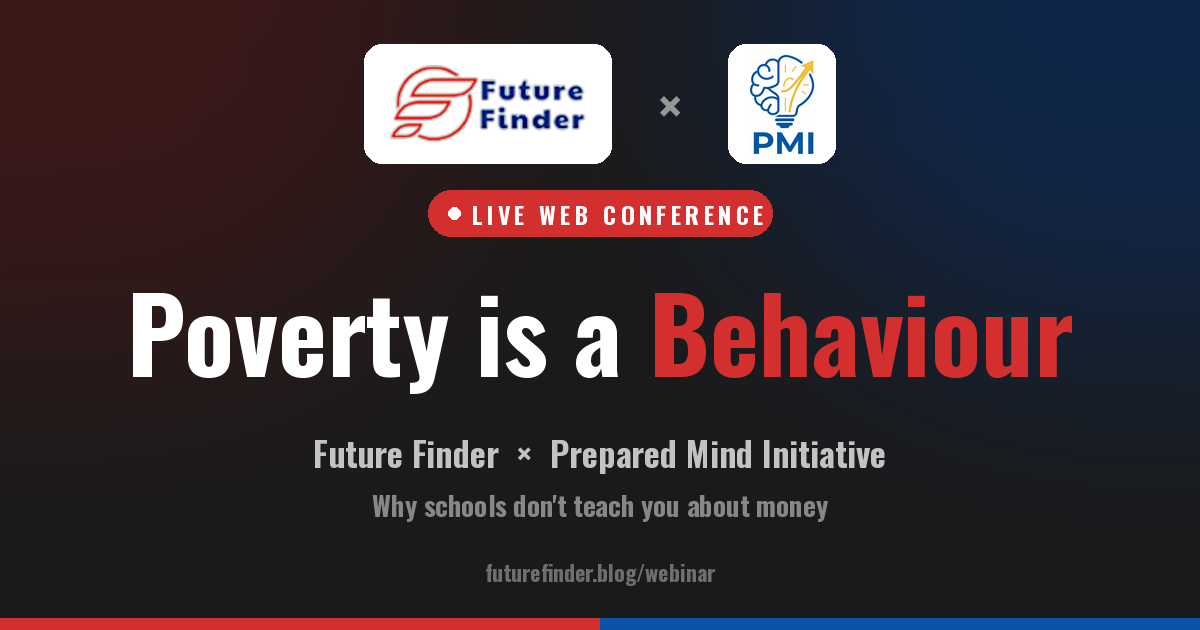
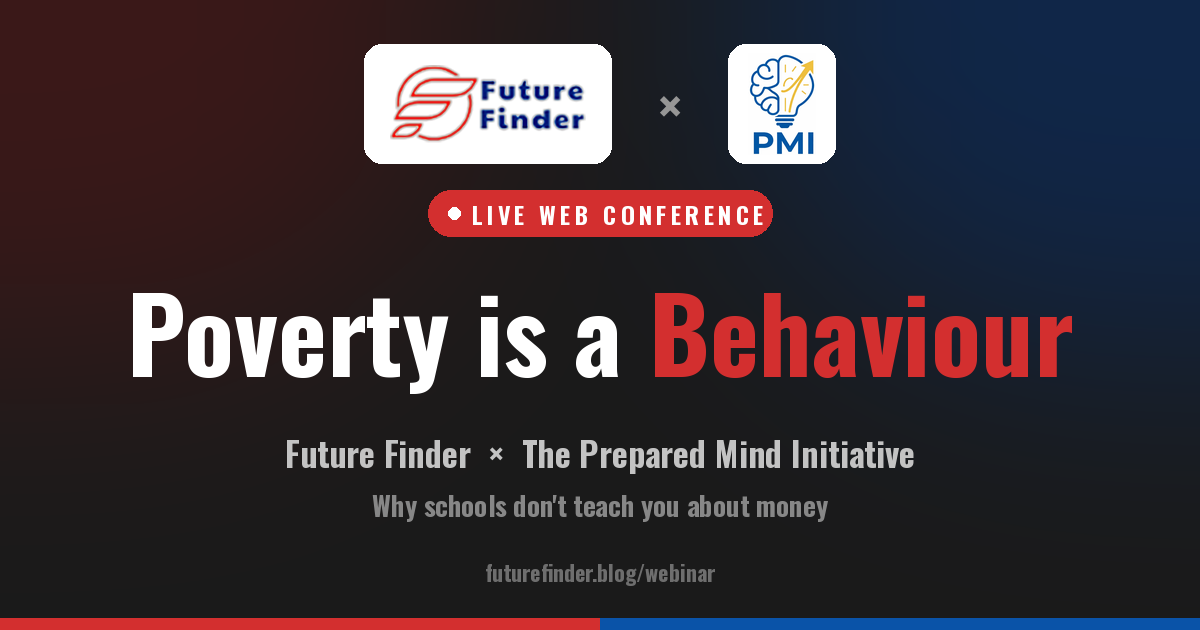
Rename partner to 'The Prepared Mind Initiative' across page, metadata and share card

Changed region(s): [[0.2158, 0.6937, 0.7708, 0.754]]

diff --git a/src/app/webinar/page.tsx b/src/app/webinar/page.tsx
@@ -5,7 +5,7 @@
 // The two video IDs below are TEST streams. On event day, replace each with the ID of that
 // channel's live broadcast (the StreamYard broadcast on each YouTube channel).
 const FF_VIDEO_ID = 'NEn_jmXaPb0'    // TEST - Future Finder channel
-const PMI_VIDEO_ID = 'RiiducAV31M'   // TEST - Prepared Mind Initiative channel
+const PMI_VIDEO_ID = 'RiiducAV31M'   // TEST - The Prepared Mind Initiative channel
 // Shown under the hero text when set, e.g. 'Saturday 15 November 2026, 6:00 PM GMT'. null hides it.
 const EVENT_WHEN: string | null = null
 // ====================================================
@@ -84,11 +84,11 @@ export default function WebConferencePage() {
       {/* Co-branded header */}
       <header className="pw-header">
         <div className="pw-header-inner">
-          <a href="#top" className="pw-lockup" aria-label="Future Finder and Prepared Mind Initiative">
+          <a href="#top" className="pw-lockup" aria-label="Future Finder and The Prepared Mind Initiative">
             <span className="pw-logo-pill"><img src="/logo.png" alt="Future Finder" /></span>
             <span className="pw-x">×</span>
-            <span className="pw-logo-pill pw-pmi-pill"><img src="/pmi-logo.png" alt="Prepared Mind Initiative (PMI)" /></span>
-            <span className="pw-pmi-name">Prepared Mind<br />Initiative</span>
+            <span className="pw-logo-pill pw-pmi-pill"><img src="/pmi-logo.png" alt="The Prepared Mind Initiative (PMI)" /></span>
+            <span className="pw-pmi-name">The Prepared Mind<br />Initiative</span>
           </a>
           <nav className="pw-nav" aria-label="Page sections">
             <a href="#about" className="pw-nav-link">About</a>
@@ -112,7 +112,7 @@ export default function WebConferencePage() {
             </div>
             <div className="pw-partner-row">
               <span className="pw-dot" style={{ background: '#42A5F5' }} />
-              <p><strong>Prepared Mind Initiative</strong> brings growth-mindset and digital-skills content, building thoughtful, purposeful minds.</p>
+              <p><strong>The Prepared Mind Initiative</strong> brings growth-mindset and digital-skills content, building thoughtful, purposeful minds.</p>
             </div>
           </div>
 
@@ -143,7 +143,7 @@ export default function WebConferencePage() {
           </h2>
           <div style={{ width: 48, height: 3, background: FF, margin: '0 auto 20px' }} />
           <p style={{ fontFamily: 'var(--font-lato)', fontSize: 16, color: '#444', lineHeight: 1.9 }}>
-            Poverty is a behaviour. Financial struggle is less about the lack of money and more about the patterns and habits people inherit and never question. In this live web conference, Future Finder and Prepared Mind Initiative unpack why poverty is a behavioural cycle, how schools have failed us on financial education, and what African youth can do right now to break those patterns.
+            Poverty is a behaviour. Financial struggle is less about the lack of money and more about the patterns and habits people inherit and never question. In this live web conference, Future Finder and The Prepared Mind Initiative unpack why poverty is a behavioural cycle, how schools have failed us on financial education, and what African youth can do right now to break those patterns.
           </p>
         </div>
       </section>
@@ -201,7 +201,7 @@ export default function WebConferencePage() {
             <div className="pw-card">
               <div className="pw-card-head" style={{ background: '#F5F8FF' }}>
                 <div className="pw-grow">
-                  <div style={{ fontFamily: 'var(--font-oswald)', fontSize: 17, fontWeight: 700, color: '#1A1A1A' }}>Prepared Mind Initiative</div>
+                  <div style={{ fontFamily: 'var(--font-oswald)', fontSize: 17, fontWeight: 700, color: '#1A1A1A' }}>The Prepared Mind Initiative</div>
                   <div style={{ fontFamily: 'var(--font-lato)', fontSize: 12, color: '#888' }}>YouTube channel</div>
                 </div>
                 <a href={PMI_YT} target="_blank" rel="noopener noreferrer" className="pw-sub-btn" style={{ background: PMI }}>▶ Subscribe</a>
@@ -210,7 +210,7 @@ export default function WebConferencePage() {
                 <div className="pw-embed">
                   <iframe
                     src={`https://www.youtube-nocookie.com/embed/${PMI_VIDEO_ID}`}
-                    title="Poverty is a Behaviour, Prepared Mind Initiative channel"
+                    title="Poverty is a Behaviour, The Prepared Mind Initiative channel"
                     allow="accelerometer; autoplay; clipboard-write; encrypted-media; gyroscope; picture-in-picture; web-share"
                     referrerPolicy="strict-origin-when-cross-origin"
                     allowFullScreen
@@ -243,7 +243,7 @@ export default function WebConferencePage() {
               </div>
             </div>
             <div className="pw-sub-card" style={{ borderTop: `4px solid ${PMI}` }}>
-              <div style={{ fontFamily: 'var(--font-oswald)', fontSize: 20, fontWeight: 700, color: '#fff', marginBottom: 8 }}>Prepared Mind Initiative</div>
+              <div style={{ fontFamily: 'var(--font-oswald)', fontSize: 20, fontWeight: 700, color: '#fff', marginBottom: 8 }}>The Prepared Mind Initiative</div>
               <p style={{ fontFamily: 'var(--font-lato)', fontSize: 14, color: '#aaa', lineHeight: 1.7, margin: '0 0 20px' }}>Growth-mindset and digital-skills content, building thoughtful, purposeful minds.</p>
               <a href={PMI_YT} target="_blank" rel="noopener noreferrer" className="pw-sub-btn" style={{ background: PMI, padding: '12px 24px', fontSize: 13 }}>▶ Subscribe on YouTube</a>
             </div>
@@ -260,13 +260,13 @@ export default function WebConferencePage() {
             <a href={FF_YT} target="_blank" rel="noopener noreferrer" style={{ color: FF, fontFamily: 'var(--font-lato)', fontSize: 13, fontWeight: 700, textDecoration: 'none' }}>Subscribe on YouTube →</a>
           </div>
           <div>
-            <div style={{ fontFamily: 'var(--font-oswald)', fontSize: 16, fontWeight: 700, color: '#fff', letterSpacing: '0.05em', textTransform: 'uppercase', marginBottom: 6 }}>Prepared Mind Initiative</div>
+            <div style={{ fontFamily: 'var(--font-oswald)', fontSize: 16, fontWeight: 700, color: '#fff', letterSpacing: '0.05em', textTransform: 'uppercase', marginBottom: 6 }}>The Prepared Mind Initiative</div>
             <p style={{ fontFamily: 'var(--font-lato)', fontSize: 13, lineHeight: 1.7, margin: '0 0 8px' }}>Building Thoughtful, Purposeful Minds.</p>
             <a href={PMI_YT} target="_blank" rel="noopener noreferrer" style={{ color: '#42A5F5', fontFamily: 'var(--font-lato)', fontSize: 13, fontWeight: 700, textDecoration: 'none' }}>Subscribe on YouTube →</a>
           </div>
         </div>
         <div style={{ maxWidth: 1000, margin: '28px auto 0', padding: '18px 24px 0', borderTop: '1px solid #222', textAlign: 'center', fontFamily: 'var(--font-lato)', fontSize: 12, color: '#666' }}>
-          © 2026 Future Finder × Prepared Mind Initiative. Hosted at futurefinder.blog.
+          © 2026 Future Finder × The Prepared Mind Initiative. Hosted at futurefinder.blog.
         </div>
       </footer>
     </div>

diff --git a/src/app/webinar/layout.tsx b/src/app/webinar/layout.tsx
@@ -1,20 +1,20 @@
 import type { Metadata } from 'next'
 
 export const metadata: Metadata = {
-  title: { absolute: 'Poverty is a Behaviour | Future Finder × Prepared Mind Initiative' },
-  description: 'A joint live web conference by Future Finder and Prepared Mind Initiative on financial habits, mindset and why schools do not teach us about money.',
+  title: { absolute: 'Poverty is a Behaviour | Future Finder × The Prepared Mind Initiative' },
+  description: 'A joint live web conference by Future Finder and The Prepared Mind Initiative on financial habits, mindset and why schools do not teach us about money.',
   alternates: { canonical: 'https://futurefinder.blog/webinar/' },
   openGraph: {
     type: 'website',
     url: 'https://futurefinder.blog/webinar/',
-    siteName: 'Future Finder × Prepared Mind Initiative',
-    title: 'Poverty is a Behaviour | Future Finder × Prepared Mind Initiative',
+    siteName: 'Future Finder × The Prepared Mind Initiative',
+    title: 'Poverty is a Behaviour | Future Finder × The Prepared Mind Initiative',
     description: 'A joint live web conference on financial habits, mindset and breaking cycles of poverty.',
-    images: [{ url: '/images/og-webinar.png', width: 1200, height: 630, alt: 'Poverty is a Behaviour: a live web conference by Future Finder × Prepared Mind Initiative' }],
+    images: [{ url: '/images/og-webinar.png', width: 1200, height: 630, alt: 'Poverty is a Behaviour: a live web conference by Future Finder × The Prepared Mind Initiative' }],
   },
   twitter: {
     card: 'summary_large_image',
-    title: 'Poverty is a Behaviour | Future Finder × Prepared Mind Initiative',
+    title: 'Poverty is a Behaviour | Future Finder × The Prepared Mind Initiative',
     description: 'A joint live web conference on financial habits, mindset and breaking cycles of poverty.',
     images: ['/images/og-webinar.png'],
   },
